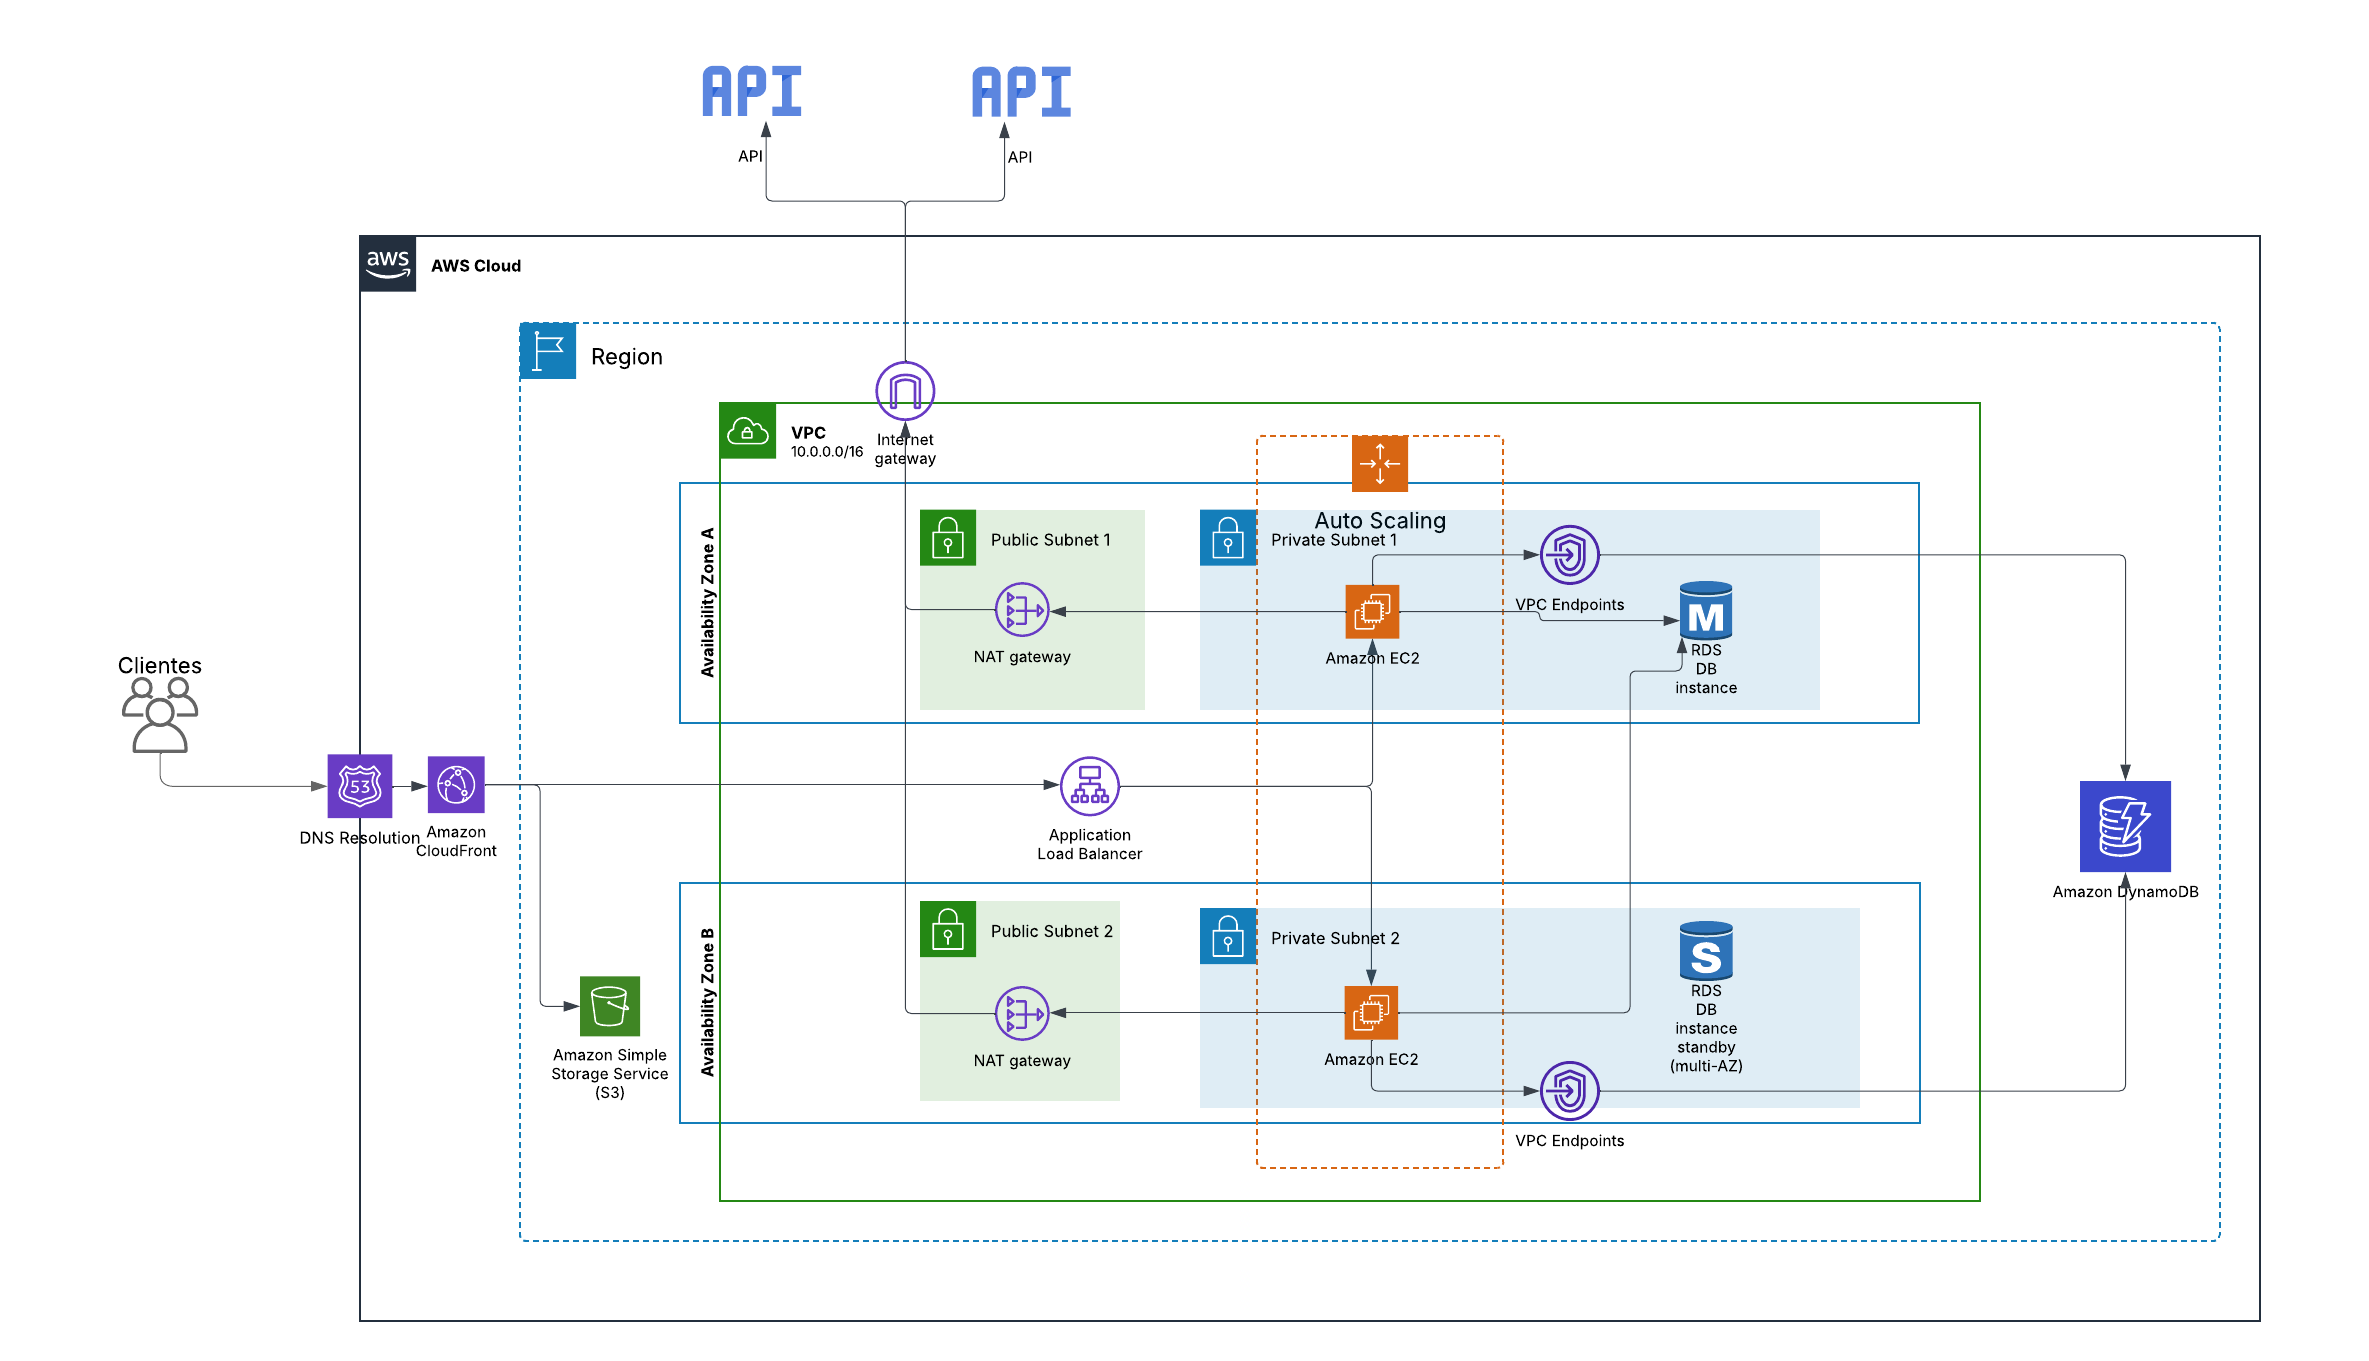
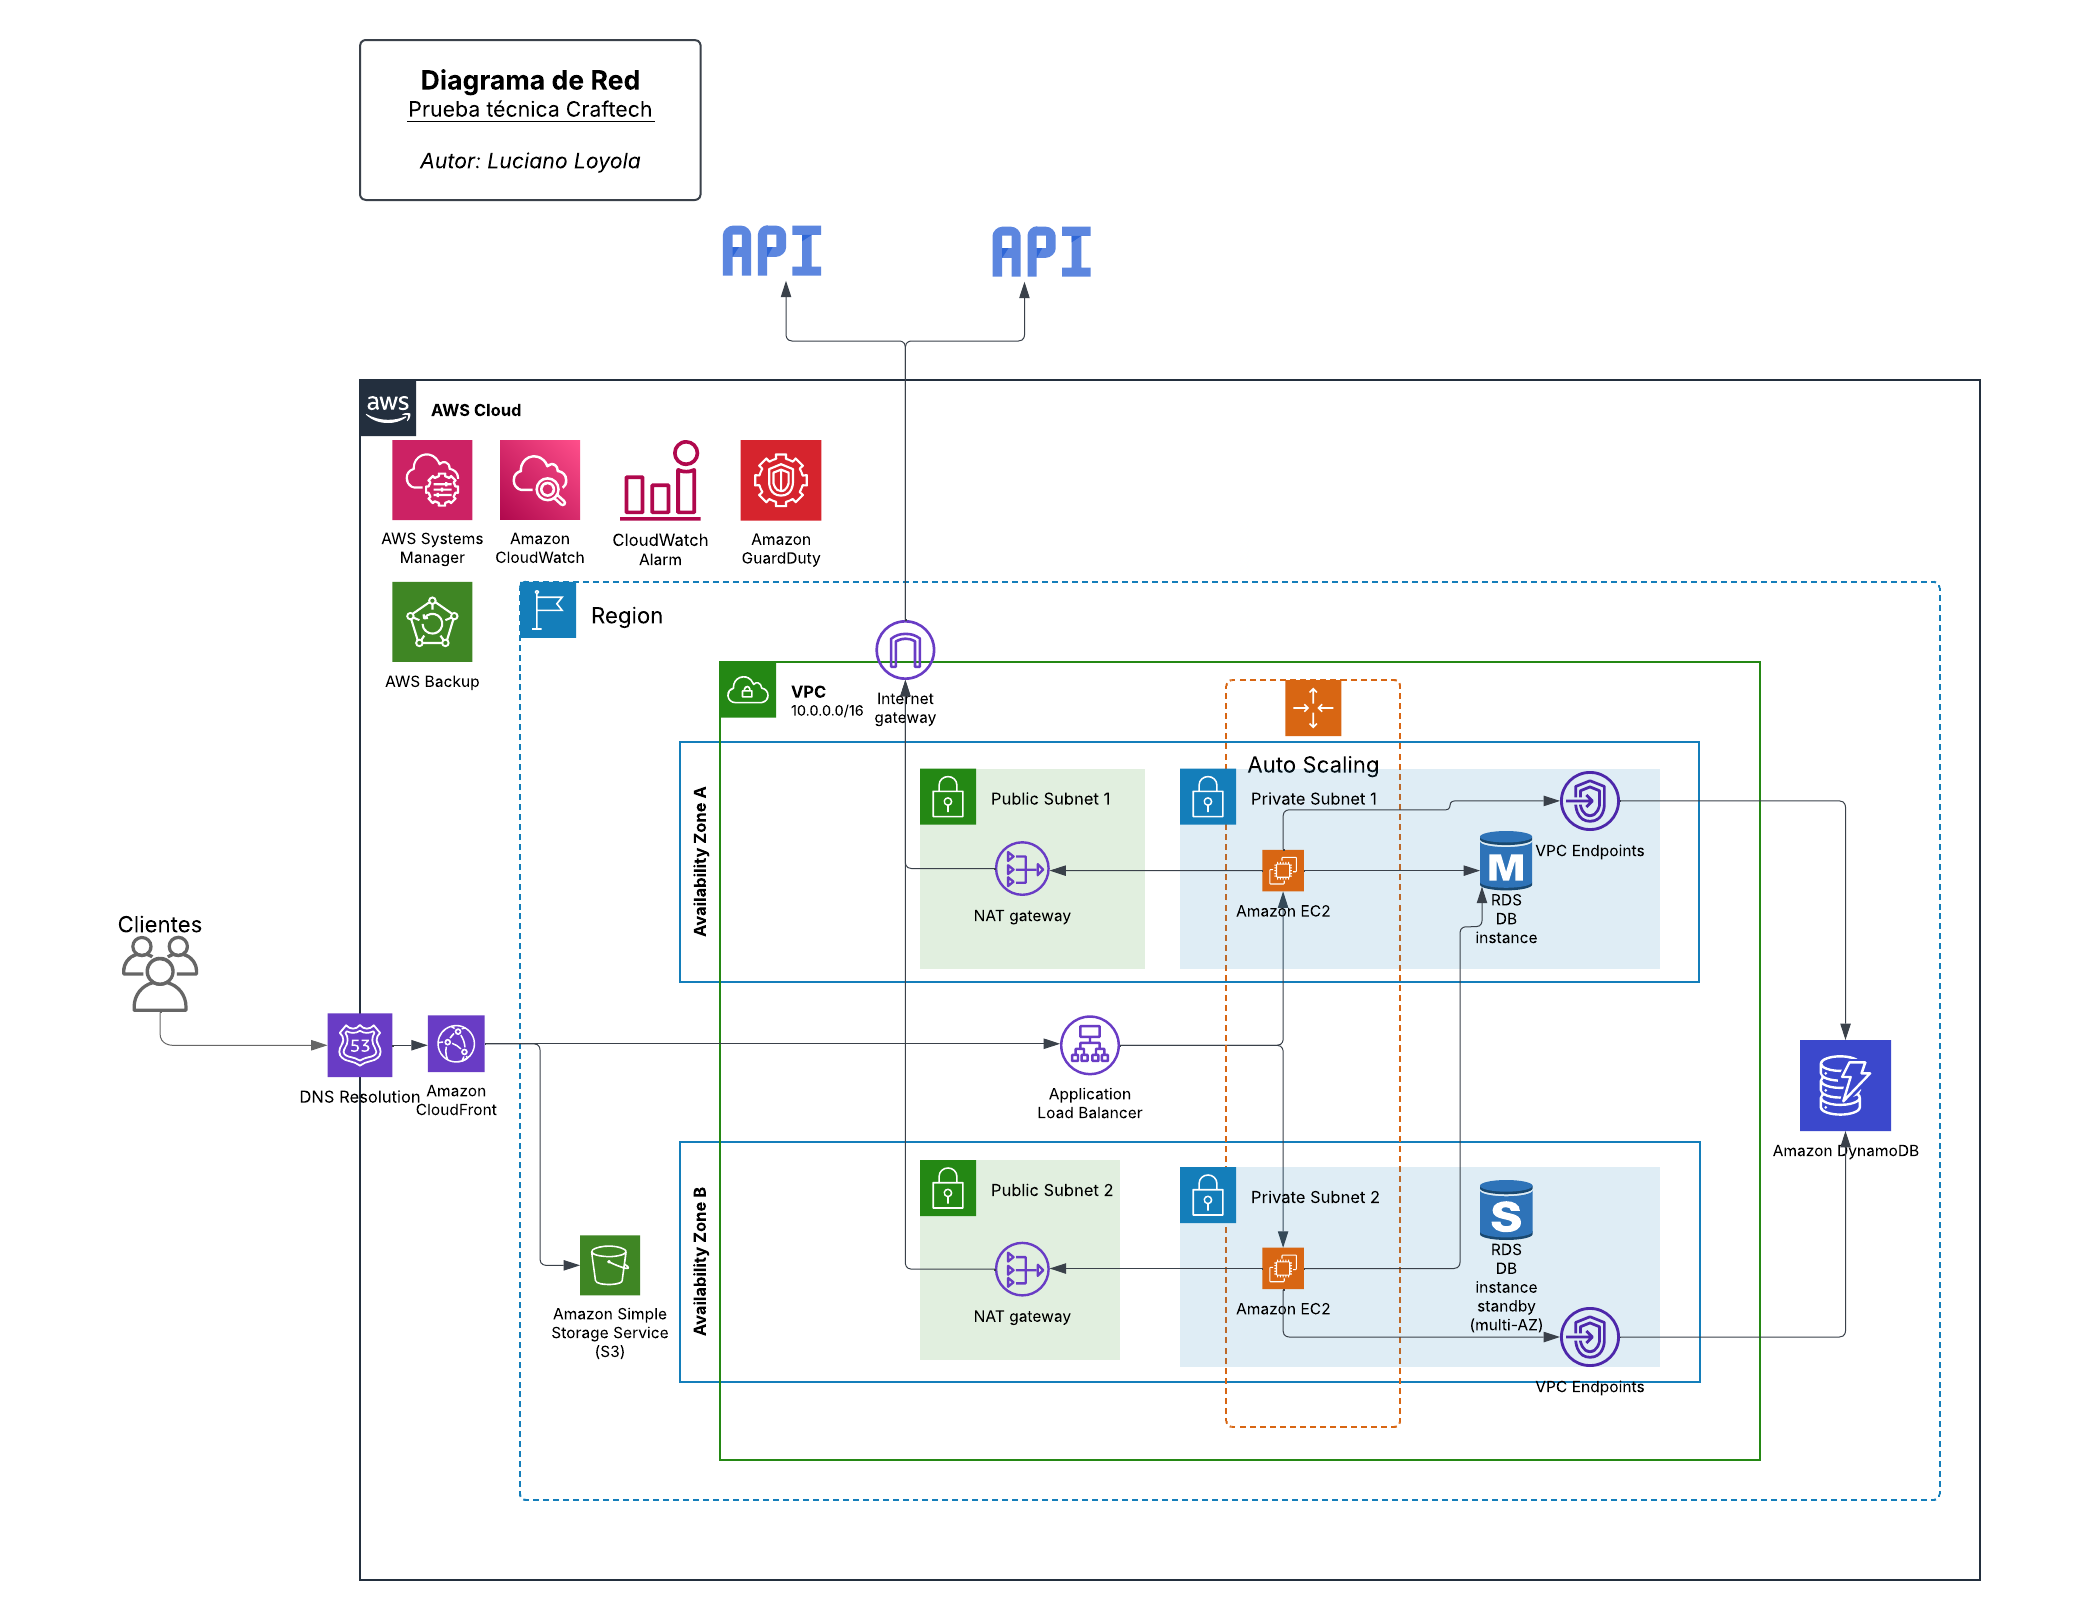
Mejora en readme de la prueba 1. Actualización del diagrama de red. Mejora en readme de prueba 2

diff --git a/Prueba1-DiagramaDeRed/README.md b/Prueba1-DiagramaDeRed/README.md
@@ -1,4 +1,21 @@
-# Diagrama de Red
+# Prueba 1 - Diagrama de Red
+---
+## Enunciado
+*Prueba 1 - Diagrama de Red Produzca un diagrama de red (puede utilizar
+lucidchart) de una aplicación web en GCP o AWS y escriba una descripción de
+texto de 1/2 a 1 página de sus elecciones y arquitectura.
+El diseño debe soportar:
+• Cargas variables
+• Contar con HA (alta disponibilidad)
+• Frontend en Js
+• Backend con una base de datos relacional y una no relacional
+• La aplicación backend consume 2 microservicios externos
+El diagrama debe hacer un mejor uso de las soluciones distribuidas.*
+
+---
+
+## Descripción de la arquitectura
+
 Se seleccionó a **AWS** para realizar el diagrama de red.
 
 Utilizo un **Bucket S3** para almacenar el contenido estático **(frontend)** de la aplicación web. ***S3 es altamente escalable y ofrece bajas latencias.***
@@ -7,14 +24,22 @@ Para distribuir el contenido estático a través de una red global de edge locat
 
 El **Auto Scaling** nos permite ajustar automáticamente el número de instancias EC2 dependiendo de la demanda.
 
-El **balanceador de carga** va a distribuir el tráfico entre las instancias EC2. Esto mejora la ***disponibilidad del sistema, la tolerancia a fallos y a manejar cargas variables*** distribuyendo las solicitudes entre los servidores.
+Pondré **AWS Systems Manager** para ver, administrar y operar nodos de forma centralizada. En combinación con este, decidí instalar un agente de monitoreo de **Amazon CloudWatch Logs** para poder tomar los archivos de logeo de la aplicación y enviarlos a CloudWatch, de manera en que se puedan ver os recursos consumidos en tableros de control.
+Tomando en cuenta que tenemos el conocimiento de como están nuestros recursos operacionales en la nube, decidí usar un **Amazon CloudWatch Alarms** para que nos alerten cuando se sobrepasa cierto nivel de consumo de los recursos.
 
-Utilizo una base de datos relacional **Amazon RDS** dado que provee de una **alta disponibilidad** al sistema al generar una réplica por cada AZ en caso de que la instancia principal se caiga ***(Multi AZ)***.
+Para implementar Alta Disponibilidad (HA), decidí usar múltiples zonas de disponibilidad. Si falla una, está la otra. (Dentro de una misma región)
+Para implementar **Escalabilidad**, utilizo **ALB (Application Load Balancer)** dentro de subredes públicas para balancear la carga en nuestros EC2. Esto permite **crecimiento horizontal** de nuestras instancias (Auto Scaling), como también seguridad al ejecutar servidores web en subredes privadas.
+
+Utilizo una base de datos relacional **Amazon RDS** dado que provee de una **alta disponibilidad** al sistema al generar una réplica por cada AZ en caso de que la instancia principal se caiga ***(Multi AZ)***. Es redimensionable y automatiza tareas de aprovisionamiento de hardware, configuración de BD, parcheos, backups.
 
 Para la base de datos no relacional, se optó por utilizar **DynamoDB**, una opción escalable y de alto rendimiento.
 
 Para establecer la conexión con el servicio DynamoDB de AWS se utilizan **VCP Endpoints** de manera en que no sea necesario salir a internet para establecer conexión, dando seguridad.
 
+Para tener **seguridad** frente a actividad maliciosa, proteger cuentas y datos utilizo el servicio de **Amazon GuardDuty**, el cual permite detectar anomalías y amenazas en mi red.
+
 Para el **consumo de APIs externas**, se dispuso de **NAT Gateways** en las subredes públicas de los AZ de manera en que los EC2 puedan tener comunicación con las APIs externas al pasar por el **Internet Gateway**.
+
+Para automatizar y centralizar la gestión de las **copias de seguridad** utilizo **AWS Backup**. Asegura protección de los datos y disponibilidad al almacenar los datos en varios servicios de AWS.
 
 **Posibles mejoras:** Si se desea incrementar la escalabilidad del sistema, se podría intercambiar la base de datos relacional Amazon RDS por una Aurora.

diff --git a/Prueba2-DespliegueApp/README.md b/Prueba2-DespliegueApp/README.md
@@ -1,6 +1,6 @@
-# Prueba 2
+# Prueba 2 -  Despliegue de una aplicación Django y React.js
 ---
-## - Enunciado
+## Enunciado
 **Despliegue de una aplicación Django y React.js** 
 *Elaborar el deployment dockerizado de una aplicación en django (backend) con frontend en React.js contenida en el repositorio. Es necesario desplegar todos los servicios en un solo docker-compose.
 Se deben entregar los Dockerfiles pertinentes para elaborar el despliegue y justificar la forma en la que elabora el deployment (supervisor, scripts, dockercompose, kubernetes, etc).
@@ -20,7 +20,8 @@ Tener instalado **Docker** y **Docker-Compose** en la **PC local** donde se ejec
 
 ---
 ## Requisitos
-Tener AWS CLI instalado y configurado con *aws configure*
+Tener una cuenta en **AWS**  para utilizar **AWS Console**.
+Instructivo basado en el *free trier de AWS.*
 
 ## Instructivo para el Deploy en AWS
 
@@ -28,7 +29,13 @@ Tener AWS CLI instalado y configurado con *aws configure*
   - Acceder a la cuenta de AWS
   - Ir a la consola EC2
   - Hacer click en "Launch Instance"
-  - LLenar con los datos del EC2 (nombre, os, t2.micro, crear una ssh, almacenamiento, grupos de seguridad)
+  - LLenar con los datos del EC2 
+    - Nombre
+    - OS (Para este instructivo elegí ubuntu)
+    - t2.micro (free tier)
+    - Crear ssh (.pem)
+    - Almacenamiento (Default 8gb)
+    - Grupos de seguridad (*puertos 80, 443, 22*)
 - **2.** **Conectarse desde la terminal utilizando ssh**
   - *ssh -i "Craftech_Prueba2.pem" ubuntu@ec2-54-166-14-178.compute-1.amazonaws.com*
 - **3. Instalar Docker y Docker Compose**
@@ -41,11 +48,10 @@ Tener AWS CLI instalado y configurado con *aws configure*
 
 - **4.** **Clonar el repositorio y configurar el entorno**
   - >cd /home/ubuntu
-  git clone https://github.com/LucianoLoyola/Craftech-prueba-tecnica-2025.git
-  cd Craftech-prueba-tecnica-2025
-  cd Prueba2-DespliegueApp
+  - >git clone https://github.com/LucianoLoyola/Craftech-prueba-tecnica-2025.git
+  - >cd Craftech-prueba-tecnica-2025/Prueba2-DespliegueApp
 - **5. Buildear la imagen y correr docker-compose**
-  - docker-compose up -d
+  - >docker-compose up --build -d
 - **6. Obtener dirección del sitio en AWS**
   - Lanzar el siguiente comando junto con la dirección IPv4 asignada por AWS
   - >host 54.166.14.178
